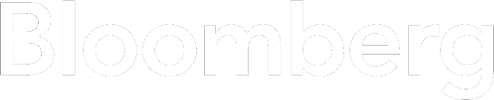
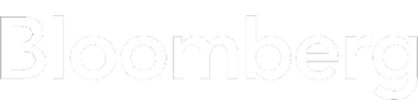
Fix Bloomberg Size

diff --git a/index.html b/index.html
@@ -214,19 +214,16 @@
                     <h5>Extra Packages</h5>
                     <div class="box alt">
                         <div class="row 50% uniform">
-                            <div class="12u 12u(small) 12u(xsmall)">
+                            <div class="6u 12u(small) 12u(xsmall)">
                                 <a href="https://www.bloomberg.com/europe" class="image fit">
                                     <img src="images/bloomberg.png" alt="Bloomberg" />
                                 </a>
                             </div>
-                        </div>
-                        <div class="row 50% uniform">
-                            <div class="12u 12u(small) 12u(xsmall)">
+                            <div class="6u 12u(small) 12u(xsmall)">
                                 <a href="https://www.topcashback.co.uk" class="image fit">
                                     <img src="images/topcashback.png" alt="TopCashback" />
                                 </a>
                             </div>
-                        </div>
                     </div>
 
                     <h5>Food provided by</h5>
